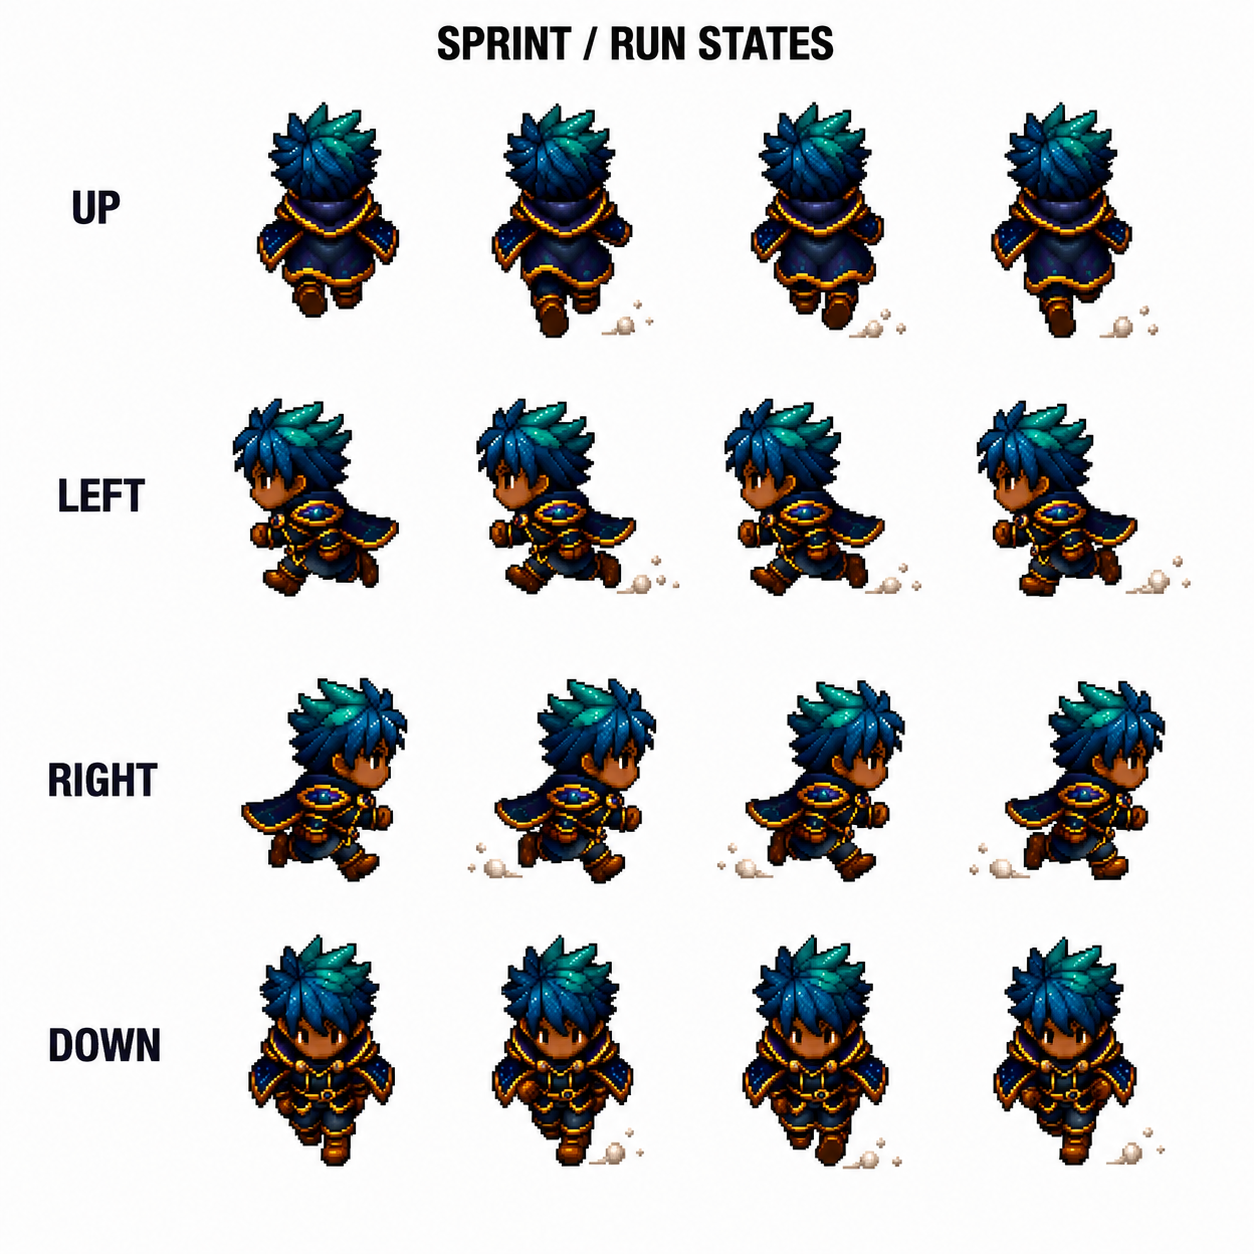
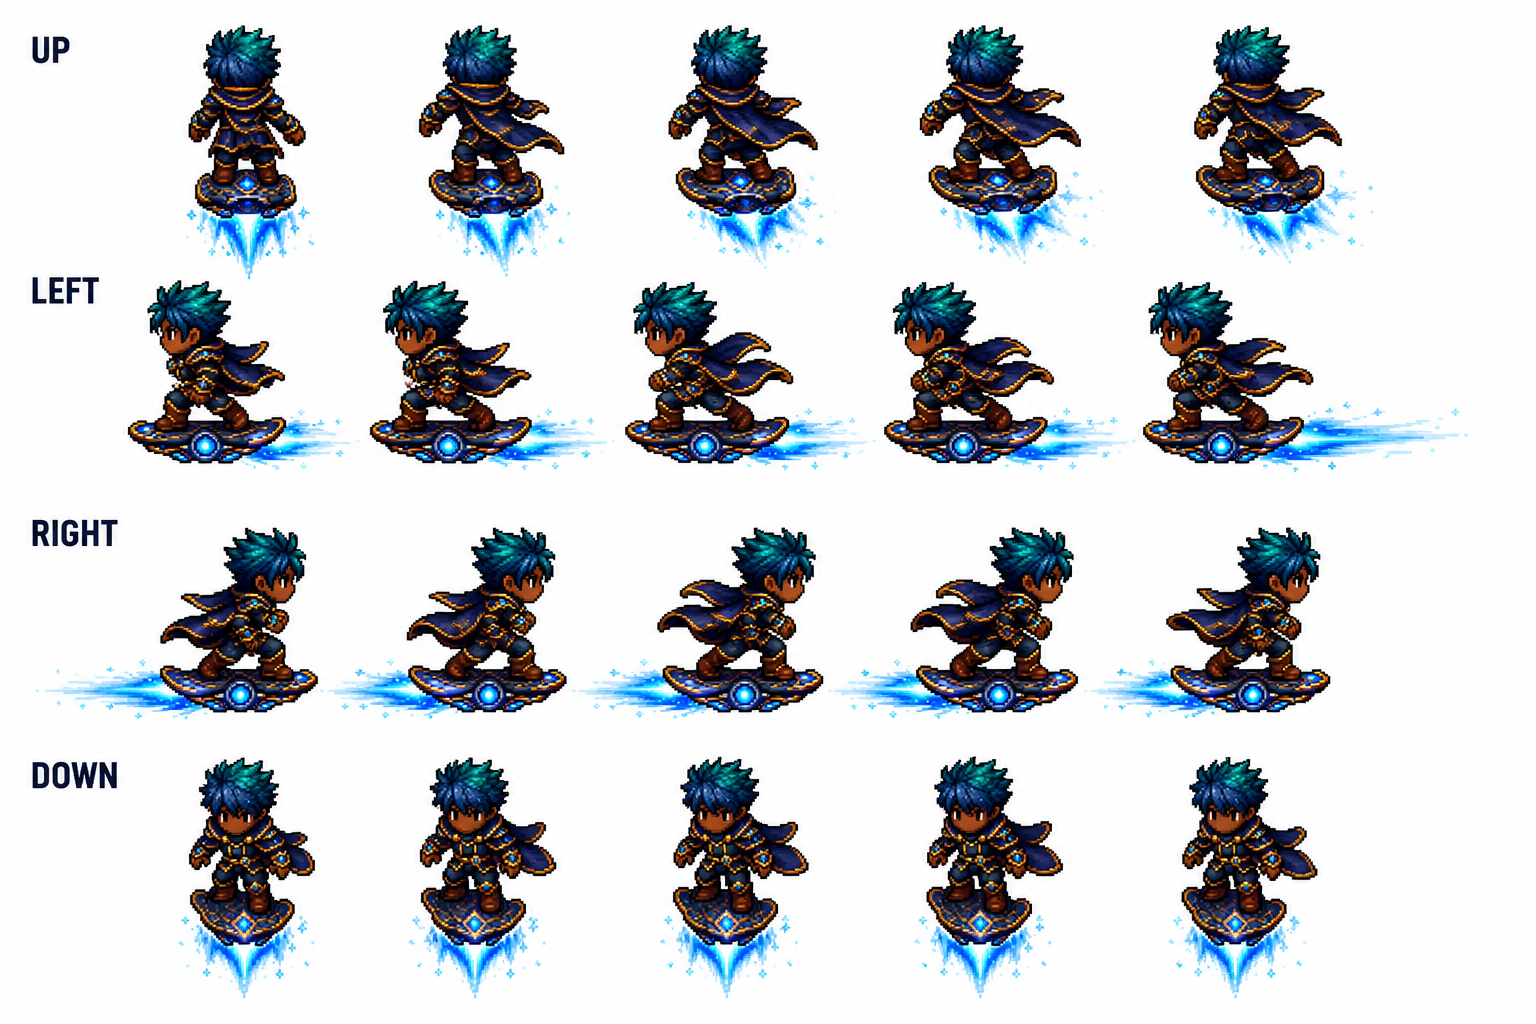
Run sprite → hoverboard re-art (same B-tap toggle, same speed)

diff --git a/expedition.html b/expedition.html
@@ -1516,16 +1516,22 @@
       up: [0, 1, 2, 3], down: [0, 1, 2, 3], left: [0, 1, 2, 3], right: [0, 1, 2, 3],
     };
 
-    // ============ Run sheet (animation_run_player.png) ============
-    // Restored Nov 2026 with the control remap (B=hold-to-run, X=kick,
-    // Y=punch). Same 4-row × 4-frame layout as the walk sheet.
-    //   frameW=220 fits the wider running pose; frameH=250.
-    //   Centers / row-bases measured from the source PNG.
+    // ============ Run sheet (animation_run_player.png — HOVERBOARD) ============
+    // Re-art Dec 2026: the running animation became a HOVERBOARD glide.
+    // Same mechanic (single-tap B toggles run mode at RUN_SCALE 1.5×),
+    // same code path — only the sheet calibration changed.
+    //   Source: 1536×1024, 4 directional rows × 5 frames each. We use the
+    //   first 4 frames to match the universal 4-frame cycle (frame 5 left
+    //   unused — could become a runStartup pose later).
+    //   frameW=230 fits the widest hoverboard pose with trail (max ~184px
+    //   wide content); frameH=245 spans the row band (~193–237px tall).
+    //   Cross-row averaged frame centers (using clean UP+DOWN rows since
+    //   LEFT/RIGHT trail effects blur the blob detection).
     const RUN_SHEET = {
-      frameW: 220,
-      frameH: 250,
-      cols: [319, 566, 814, 1070],
-      rowBases: { up: 342, left: 600, right: 886, down: 1172 },
+      frameW: 230,
+      frameH: 245,
+      cols: [248, 487, 740, 1000],
+      rowBases: { up: 263, left: 469, right: 717, down: 992 },
     };
     const RUN_WALK_ORDER = {
       up: [0, 1, 2, 3], down: [0, 1, 2, 3], left: [0, 1, 2, 3], right: [0, 1, 2, 3],
